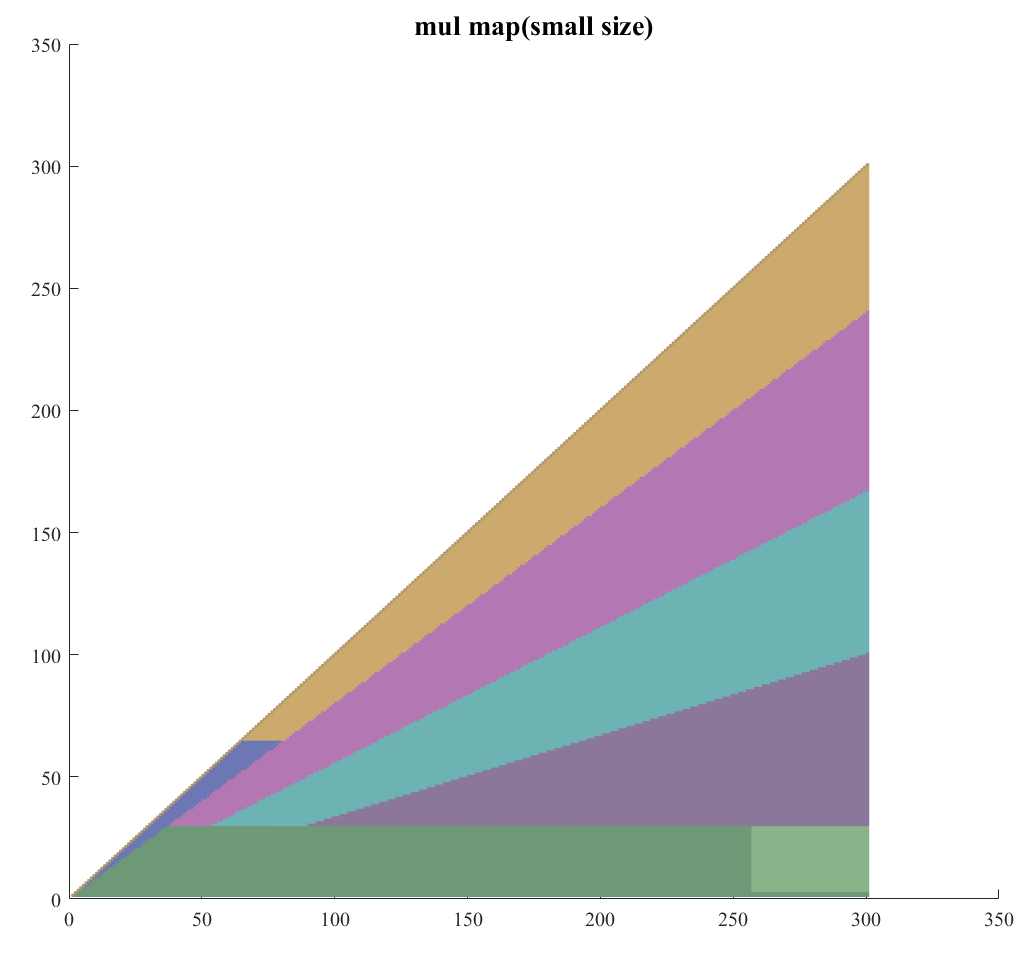
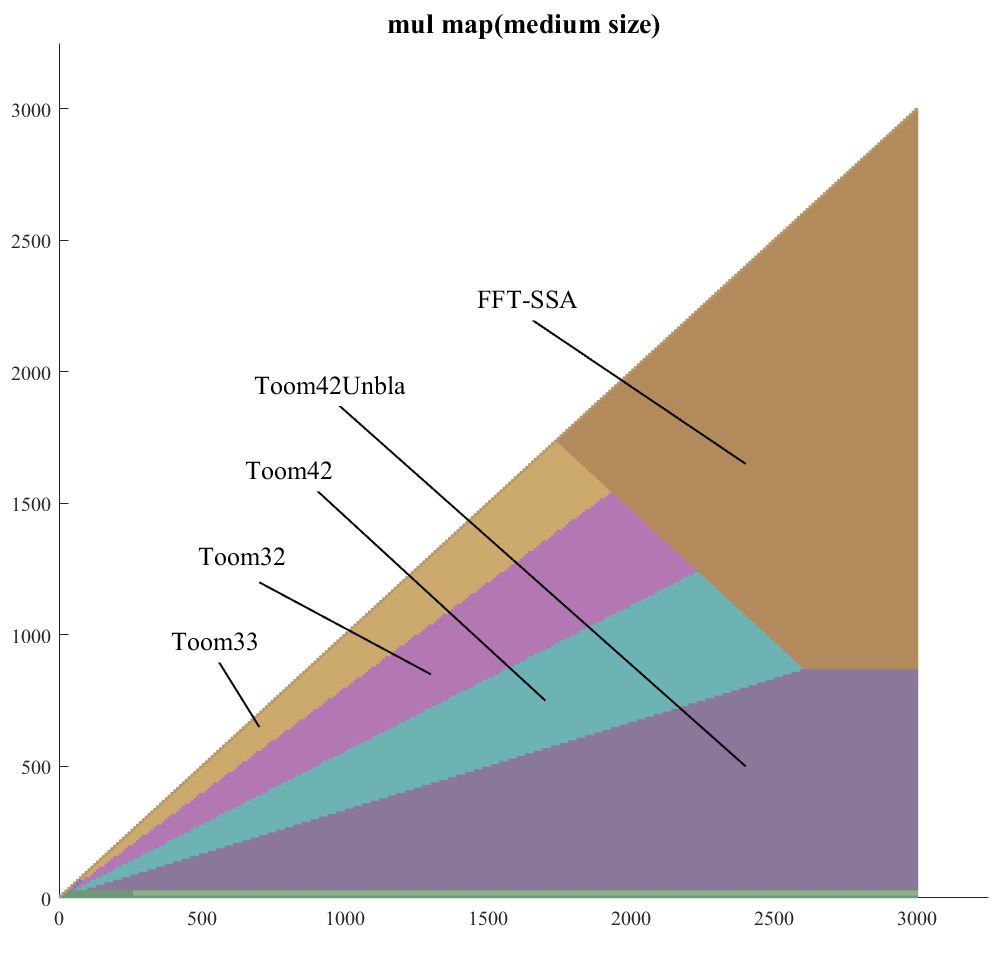
部分更改子目录下的cmake，在doc中绘制新的乘法地图，增加了乘法类型的文本标注

diff --git a/test/lammp/main.cpp b/test/lammp/main.cpp
@@ -42,23 +42,6 @@ int main() {
     //         std::cout << "failed" << std::endl;
     //     }
     // }
-    // test_factorial();
-    
-    std::cout << "Testing pow(2, 100)... " << std::flush;
-    if (test_pow(2, 100) == 0) std::cout << "PASSED" << std::endl;
-    else std::cout << "FAILED" << std::endl;
-
-    std::cout << "Testing pow(3, 50)... " << std::flush;
-    if (test_pow(3, 50) == 0) std::cout << "PASSED" << std::endl;
-    else std::cout << "FAILED" << std::endl;
-
-    std::cout << "Testing pow(10, 200)... " << std::flush;
-    if (test_pow(10, 200) == 0) std::cout << "PASSED" << std::endl;
-    else std::cout << "FAILED" << std::endl;
-
-    std::cout << "Testing pow(151, 1439)... " << std::flush;
-    if (test_pow(151, 1439) == 0) std::cout << "PASSED" << std::endl;
-    else std::cout << "FAILED" << std::endl;
-
+    // test_pow(151, 1439);
     return 0;
 }

diff --git a/test/lammp/src/test_pow.cpp b/test/lammp/src/test_pow.cpp
@@ -7,10 +7,9 @@ int test_pow(uint a0, uint exp) {
     mp_size_t bn = lmmp_pow_size_(a, 1, exp);
     mp_ptr b = (mp_ptr)lmmp_alloc(bn * sizeof(mp_limb_t));
     mp_ptr c = (mp_ptr)lmmp_alloc(bn * sizeof(mp_limb_t));
-
+    //std::cout << "1" << std::endl;
     mp_size_t n1 = lmmp_pow_1_(b, bn, a[0], exp);
     mp_size_t n2 = lmmp_pow_win3_(c, a, 1, exp);
-
     if (n1 != n2) {
         FREE(b);
         FREE(c);

diff --git a/benchmark/lammp/include/benchmark.hpp b/benchmark/lammp/include/benchmark.hpp
@@ -1,4 +1,4 @@
-#ifndef __BENCHMARK_HPP__
+#ifndef __BENCHMARK_HPP__
 #define __BENCHMARK_HPP__
 
 #include <chrono>

diff --git a/test/lammp/include/test_long.hpp b/test/lammp/include/test_long.hpp
@@ -1,4 +1,4 @@
-#include <iostream>
+#include <iostream>
 #include <random>
 #include <chrono>
 #include "../../../include/lammp/lmmpn.h"

diff --git a/test/lammp/include/test_short.hpp b/test/lammp/include/test_short.hpp
@@ -1,4 +1,4 @@
-#include <iostream>
+#include <iostream>
 #include "../../../include/lammp/lmmpn.h"
 #include "../../../include/lammp/numth.h"
 #include "../../../include/lammp/impl/_umul64to128_.h"